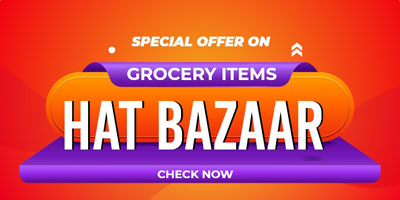
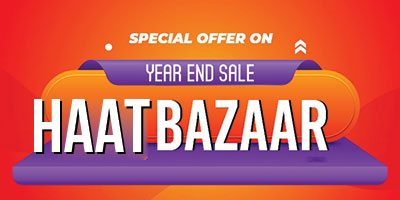
update for hat-bazaar

diff --git a/components/campaign/Campaign.js b/components/campaign/Campaign.js
@@ -6,7 +6,7 @@ function Campaign() {
         <div className="row bg-white py-4">
             <div className="col-lg-4 col-md-6 col-12 mb-3 mb-lg-0">
                 <div className="pointer text-center">
-                    <Link href="/products?type=flash-sale">
+                    <Link href="/products?type=flash-sale&name=Flash Sale">
                         <a>
                             <div>
                                 <img width={400} height={200} className="img-responsive" src="/images/campaign/flash-sale.jpg" alt="flash sale" />
@@ -18,7 +18,7 @@ function Campaign() {
 
             <div className="col-lg-4 col-md-6 col-12 mb-3 mb-lg-0">
                 <div className="pointer text-center">
-                    <Link href="/products?type=hatt-bazaar">
+                    <Link href="/products?type=haat-bazaar&name=Haat Bazaar">
                         <a>
                             <div>
                                 <img width={400} height={200} className="img-responsive" src="/images/campaign/hatbazaar.jpg" alt="Hatt bazaar"/>
@@ -30,7 +30,7 @@ function Campaign() {
 
             <div className="col-lg-4 col-md-6 col-12 mb-lg-0">
                 <div className="pointer text-center">
-                    <Link href="/products?type=super-sale">
+                    <Link href="/products?type=super-sale&name=Super Sale">
                         <a>
                             <div>
                                 <img width={400} height={200} className="img-responsive" src="/images/campaign/mega-deals.jpg" alt="Mega deals" />

diff --git a/components/products/partials/PriceCalculation.js b/components/products/partials/PriceCalculation.js
@@ -17,21 +17,23 @@ const PriceCalculation = ({ item }) => {
     return (
         <div className="price-area">
             <p className="active-price">
-                { formatCurrency(default_price) }
+                { formatCurrency(floorNum(default_price)) }
             </p>
 
             {
                 (is_offer_enable && offer_price !== 0) &&
                 <p className="inactive-price">
-                    <del>{ formatCurrency(selling_price) } </del>
+                    <del>{ formatCurrency(floorNum(selling_price)) }</del>
                     &nbsp;
                     <span className="discount-percent">
-                        {discount_percent.toFixed(1)}%
+                        -{discount_percent < 1 ? discount_percent.toFixed(1) : floorNum(discount_percent)}%
                     </span>
                 </p>
             }
         </div>
     );
 }
+
+const floorNum = (val) => Math.floor(val)
 
 export default PriceCalculation;

diff --git a/components/product-detail/ProductDetailInfo.js b/components/product-detail/ProductDetailInfo.js
@@ -117,6 +117,7 @@ const ProductDetailInfo = (props) => {
   };
 
   const addToCart = () => {
+    console.log('product => ', product);
     if (parseInt(product.current_stock) === 0) {
       showToast("error", "This product is out of stock!");
     } else if (typeof filterCarts !== "undefined" && filterCarts !== null) {
@@ -376,9 +377,12 @@ const ProductDetailInfo = (props) => {
                                   </div>
                                 </div>
                               </div>
+                              <div className="mt-2">
+                                <span>
+                                  Pay 10&#37; advance if purchase amount above 2000 BDT
+                                </span>
+                              </div>
                             </div>
-
-
                           </div>
                         </div>
                       </div>

diff --git a/components/CategoryWishProductList/CategoryWishProductContainer.js b/components/CategoryWishProductList/CategoryWishProductContainer.js
@@ -191,10 +191,10 @@ const CategoryWishProductContainer = () => {
 
       <section className="pt-2 pt-md-4">
         {
-          categoryBrandDetails.banner_url && (
+          categoryBrandDetails.banner_url || typeQuery === 'haat-bazaar' && (
               <div className="banner">
                 <div className="banner-photo-box">
-                  <Image src={categoryBrandDetails.banner_url} width={1260} height={280} />
+                  <Image src={typeQuery === 'haat-bazaar' ? '/images/campaign/haatbazaar-banner.jpg' : categoryBrandDetails.banner_url} width={1260} height={280} />
                 </div>
               </div>
           )

diff --git a/services/currency.js b/services/currency.js
@@ -80,7 +80,7 @@ export function activeLang ( printableLabel = '' ) {
 export function formatCurrency (amount, thousandSeparator = true, prefix = activeCurrency('sign')) {
     var CurrencyFormat = require('react-currency-format');
 
-    amount = isNumeric(amount) ? parseFloat(amount) : 0;
+    amount = Math.floor(isNumeric(amount)) ? Math.floor(parseFloat(amount)) : 0;
 
     return <CurrencyFormat value={amount} displayType={'text'} thousandSeparator={thousandSeparator} prefix={prefix} />;
 }

diff --git a/pages/_app.js b/pages/_app.js
@@ -89,7 +89,7 @@ function MyApp({ Component, pageProps }) {
     <>
       <Script
         strategy="afterInteractive"
-        src={`https://www.googletagmanager.com/gtag/js?id=${gtag.GA_TRACKING_ID}`}
+        src={`https://www.googletagmanager.com/gtag/js?id=G-1PNGH962LS`}
       />
 
       <Script
